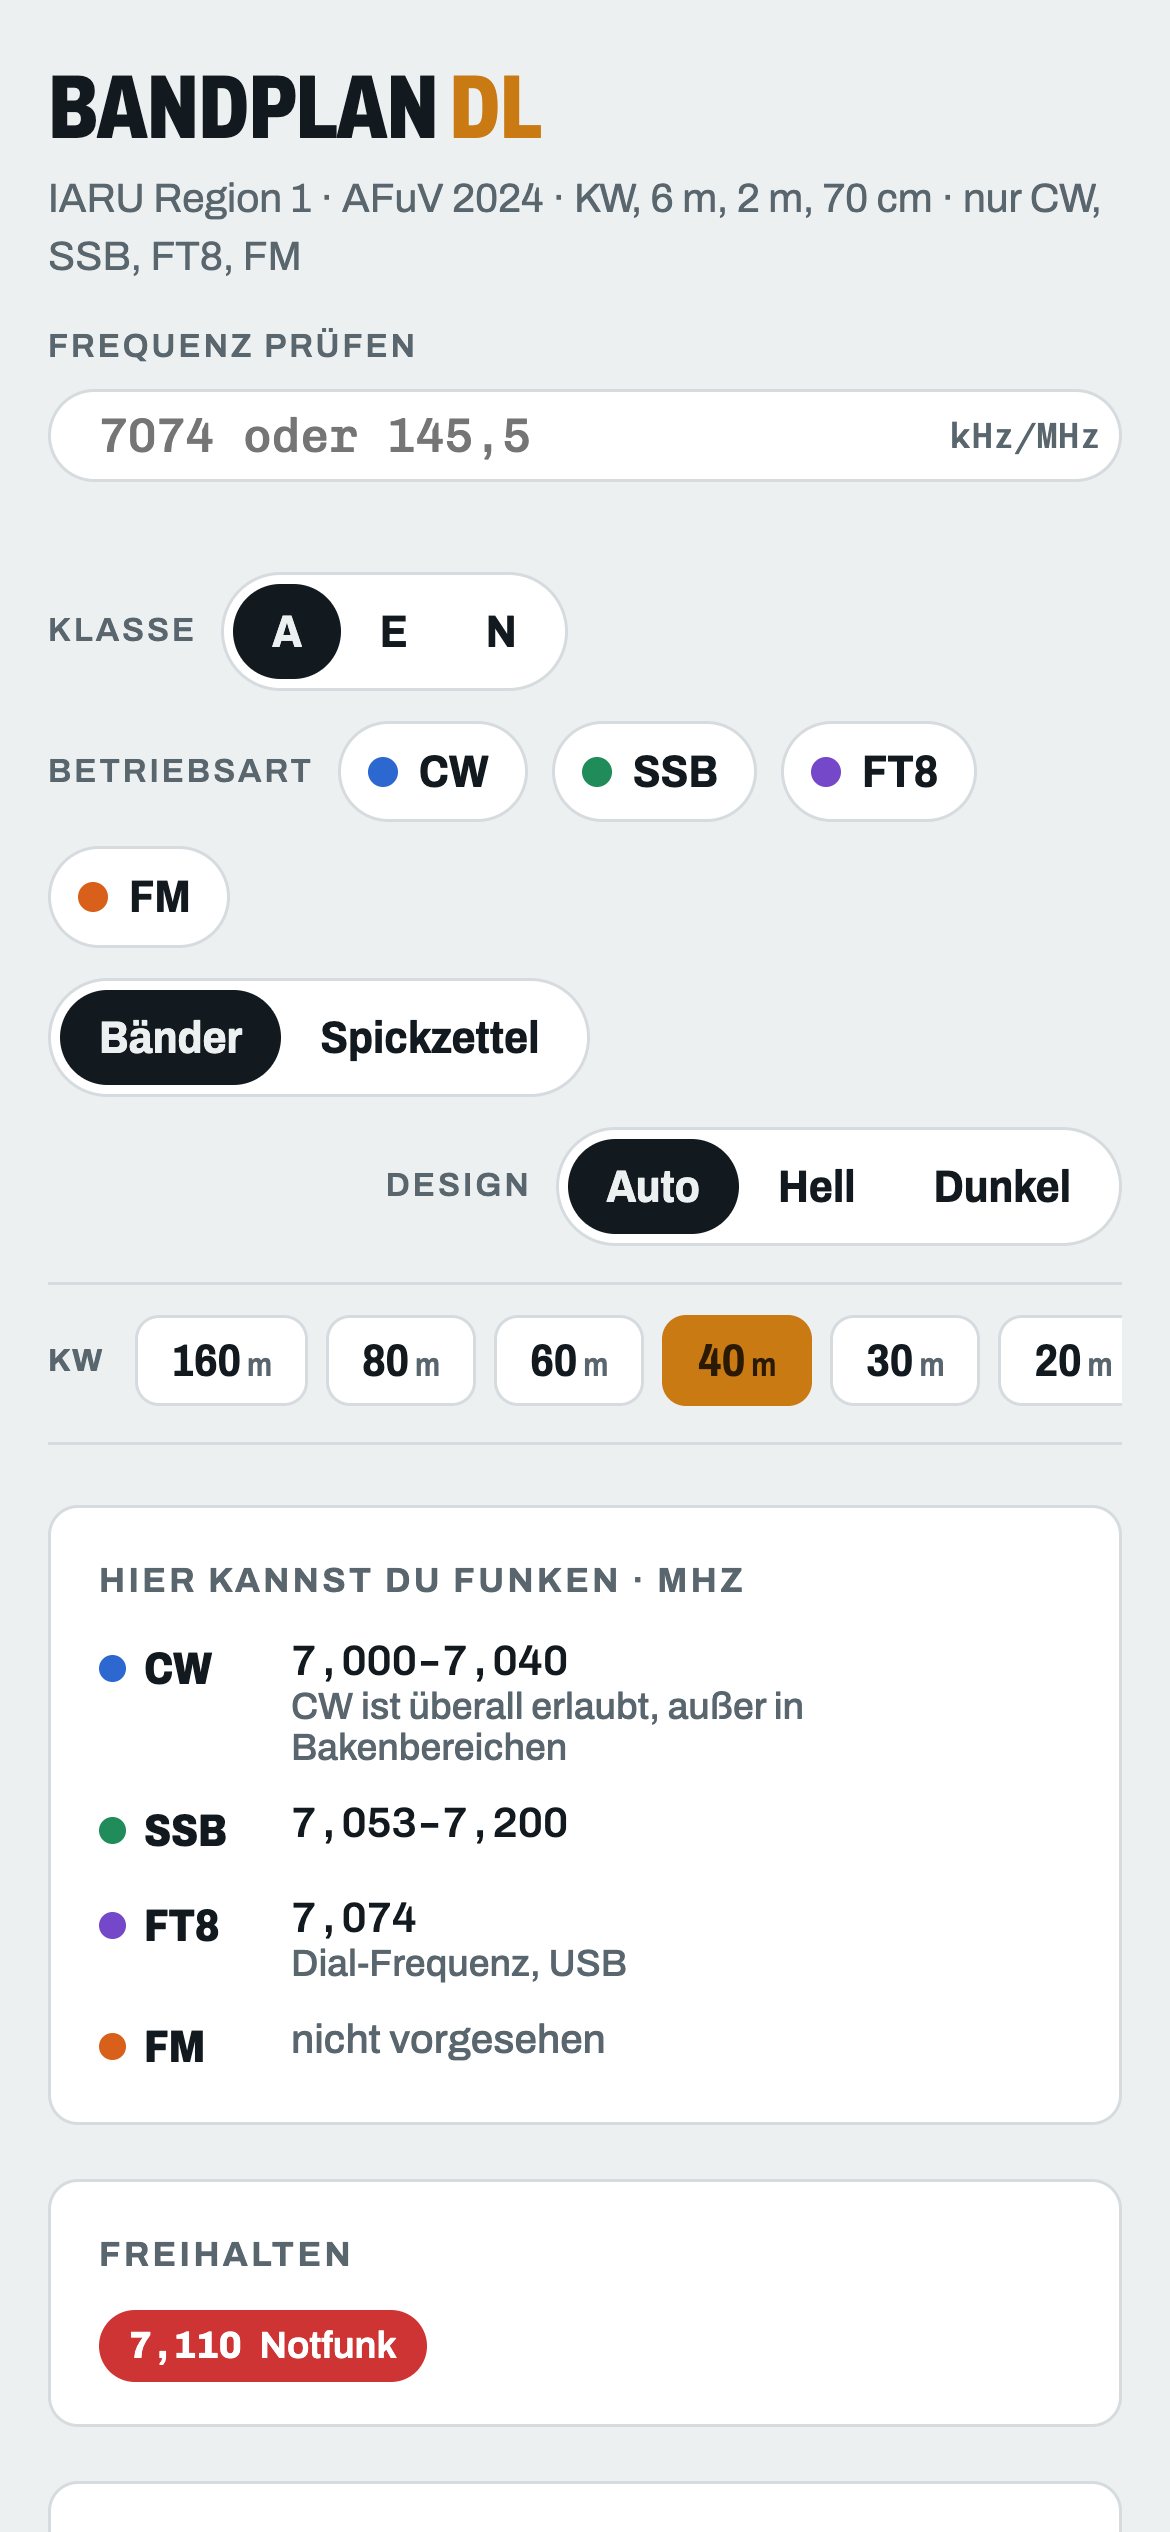
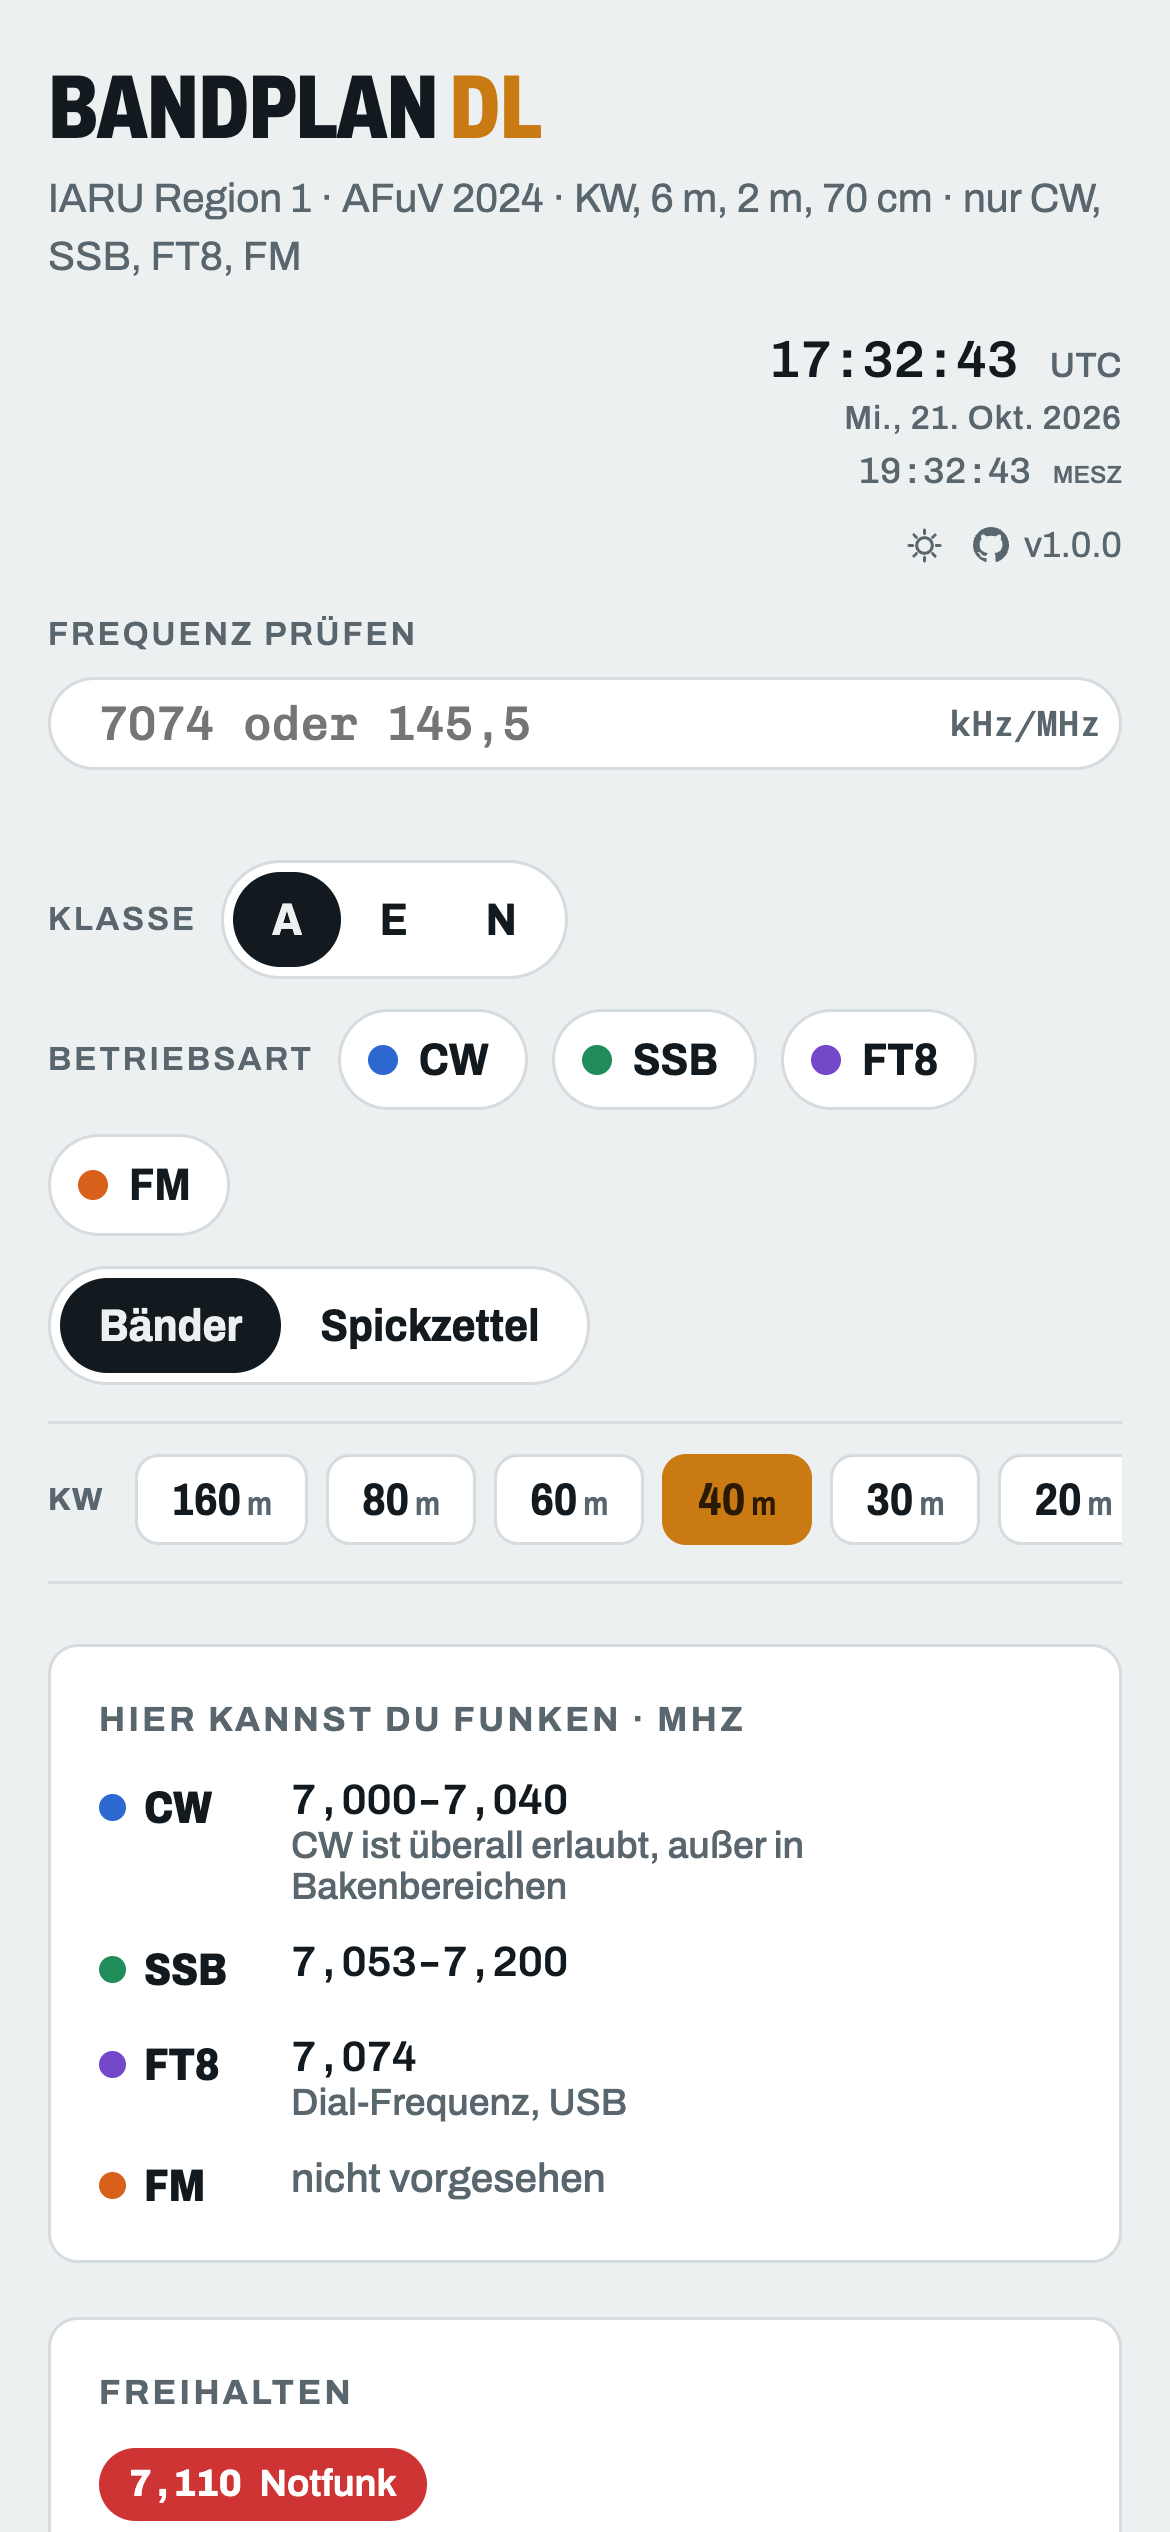
Release v1.0.0: Kopfbereich wie MUF Muncher, Versionierung, Changelog
- Kopf rechts: UTC-Uhr mit Datum und Ortszeit, Hell/Dunkel-Umschalter
  (Sonne/Mond, ohne Wahl gilt die Systemeinstellung), GitHub-Link mit
  Version; ersetzt den Auto/Hell/Dunkel-Schalter in der Steuerleiste.
  GitHub-Icon als Inline-SVG (keine Inhalte von Dritten, CSP bleibt streng)
- VERSION in assets/app.js, Anzeige im Kopf und im Footer
- CHANGELOG.md, README: Release-Ablauf
- Screenshots aktualisiert

diff --git a/index.html b/index.html
@@ -18,6 +18,23 @@
       <h1>Bandplan <span>DL</span></h1>
       <p>IARU Region 1 · AFuV 2024 · KW, 6 m, 2 m, 70 cm · nur CW, SSB, FT8, FM</p>
     </div>
+    <div class="hud">
+      <div class="live-clock" aria-label="Uhrzeit">
+        <div class="clock-utc"><span id="utcClock">--:--:--</span> <span class="clock-tz">UTC</span></div>
+        <div class="clock-date" id="clockDate">&nbsp;</div>
+        <div class="clock-local"><span id="localClock">--:--:--</span> <span class="clock-tz" id="localTz"></span></div>
+      </div>
+      <div class="hud-row">
+        <button type="button" id="themeToggle" class="theme-toggle" aria-label="Hell/Dunkel umschalten" title="Hell/Dunkel umschalten">
+          <svg class="theme-icon-sun" viewBox="0 0 20 20" width="13" height="13" aria-hidden="true"><circle cx="10" cy="10" r="4" fill="none" stroke="currentColor" stroke-width="1.6"/><g stroke="currentColor" stroke-width="1.6" stroke-linecap="round"><path d="M10 2v2M10 16v2M18 10h-2M4 10H2M15.5 4.5l-1.4 1.4M5.9 14.1l-1.4 1.4M15.5 15.5l-1.4-1.4M5.9 5.9L4.5 4.5"/></g></svg>
+          <svg class="theme-icon-moon" viewBox="0 0 20 20" width="13" height="13" aria-hidden="true"><path d="M15.5 12.3A6.5 6.5 0 1 1 7.7 4.5a5.2 5.2 0 0 0 7.8 7.8z" fill="currentColor"/></svg>
+        </button>
+        <a class="version-link" href="https://github.com/mooxle/bandplan-dl" rel="noopener" title="Quellcode auf GitHub">
+          <svg viewBox="0 0 16 16" width="12" height="12" aria-hidden="true"><path fill="currentColor" d="M8 0C3.58 0 0 3.58 0 8c0 3.54 2.29 6.53 5.47 7.59.4.07.55-.17.55-.38 0-.19-.01-.82-.01-1.49-2.01.37-2.53-.49-2.69-.94-.09-.23-.48-.94-.82-1.13-.28-.15-.68-.52-.01-.53.63-.01 1.08.58 1.23.82.72 1.21 1.87.87 2.33.66.07-.52.28-.87.51-1.07-1.78-.2-3.64-.89-3.64-3.95 0-.87.31-1.59.82-2.15-.08-.2-.36-1.02.08-2.12 0 0 .67-.21 2.2.82.64-.18 1.32-.27 2-.27.68 0 1.36.09 2 .27 1.53-1.04 2.2-.82 2.2-.82.44 1.1.16 1.92.08 2.12.51.56.82 1.27.82 2.15 0 3.07-1.87 3.75-3.65 3.95.29.25.54.73.54 1.48 0 1.07-.01 1.93-.01 2.2 0 .21.15.46.55.38A8.013 8.013 0 0016 8c0-4.42-3.58-8-8-8z"/></svg>
+          <span id="versionHeader"></span>
+        </a>
+      </div>
+    </div>
     <div class="check">
       <label for="chk">Frequenz prüfen</label>
       <div class="field"><input id="chk" type="text" inputmode="decimal" placeholder="7074 oder 145,5" autocomplete="off" enterkeyhint="go"><span class="unit">kHz/MHz</span></div>
@@ -37,11 +54,6 @@
         <button id="tabBand" data-v="band">Bänder</button><button id="tabSheet" data-v="sheet">Spickzettel</button>
       </div>
     </div>
-    <div class="ctl theme"><span class="lbl">Design</span>
-      <div class="seg" id="theme" role="group" aria-label="Farbschema">
-        <button data-t="auto" title="Wie das Gerät">Auto</button><button data-t="light">Hell</button><button data-t="dark">Dunkel</button>
-      </div>
-    </div>
   </div>
 
   <nav class="bandbar" aria-label="Bänder"><div class="bands" id="bands"></div></nav>
@@ -53,6 +65,7 @@
     <div>Der Bandplan ist eine Empfehlung; rechtlich verbindlich sind Frequenzbereiche und Leistungen der AFuV. CW ist laut IARU auf allen Bändern überall erlaubt, außer in Bakenbereichen. Frequenzen sind Sendefrequenzen bzw. für FT8 die Dial-Frequenz (USB).</div>
     <div>Direktlinks: <span class="mono">#40</span> öffnet ein Band, <span class="mono">#f=7.074</span> prüft eine Frequenz, <span class="mono">#spick</span> den Spickzettel. Spickzettel lässt sich drucken (A4).</div>
     <div>Privates, nicht kommerzielles Projekt von Max Sammet, <a href="https://www.qrz.com/db/DA6MAX" rel="noopener noreferrer">DA6MAX</a> · <a href="impressum.html">Impressum &amp; Datenschutz</a></div>
+    <div><span id="versionFoot"></span> · MIT-Lizenz · <a href="https://github.com/mooxle/bandplan-dl" rel="noopener">Quellcode auf GitHub</a></div>
     <!--BUILD-->
   </footer>
 </div>

diff --git a/assets/app.css b/assets/app.css
@@ -32,7 +32,24 @@ button{font:inherit;color:inherit}
 :focus-visible{outline:2px solid var(--accent);outline-offset:2px}
 
 /* Kopf */
-header.top{display:grid;grid-template-columns:1fr auto;gap:12px 24px;align-items:end;padding-block:22px 14px}
+header.top{display:grid;grid-template-columns:1fr auto;grid-template-areas:"brand hud" "brand check" "res res";gap:12px 24px;align-items:end;padding-block:22px 14px}
+.brand{grid-area:brand}
+.check{grid-area:check}
+/* Uhr, Hell/Dunkel, GitHub + Version (wie bei MUF Muncher) */
+.hud{grid-area:hud;display:flex;flex-direction:column;align-items:flex-end;gap:2px}
+.live-clock{text-align:right;font-family:var(--font-m);font-variant-numeric:tabular-nums}
+.clock-utc{font-size:17px;font-weight:500;color:var(--ink);letter-spacing:.01em}
+.clock-date{font:500 11px var(--font-d);color:var(--muted);letter-spacing:.03em;margin-top:1px}
+.clock-local{font-size:12px;color:var(--muted);margin-top:3px}
+.clock-tz{font:500 .68em var(--font-d);color:var(--muted)}
+.hud-row{display:flex;align-items:center;gap:6px;margin-top:4px}
+.version-link{display:flex;align-items:center;gap:5px;font-size:12px;color:var(--muted);text-decoration:none}
+.version-link:hover{color:var(--ink)}
+.theme-toggle{display:inline-flex;align-items:center;justify-content:center;width:20px;height:20px;padding:0;border:0;border-radius:6px;background:transparent;color:var(--muted);cursor:pointer}
+.theme-toggle:hover{color:var(--ink);background:var(--surface2)}
+.theme-toggle .theme-icon-moon{display:none}
+.theme-toggle.is-dark .theme-icon-sun{display:none}
+.theme-toggle.is-dark .theme-icon-moon{display:block}
 .brand h1{margin:0;font-weight:800;font-stretch:72%;font-size:clamp(30px,6vw,46px);line-height:.95;letter-spacing:-.01em;text-transform:uppercase}
 .brand h1 span{color:var(--accent)}
 .brand p{margin:6px 0 0;color:var(--muted);font-size:13.5px}
@@ -41,11 +58,10 @@ header.top{display:grid;grid-template-columns:1fr auto;gap:12px 24px;align-items
 .check .field{display:flex;align-items:center;background:var(--surface);border:1px solid var(--line);border-radius:999px;padding:4px 6px 4px 14px;gap:8px}
 .check input{border:0;background:transparent;color:var(--ink);font:500 16px var(--font-m);width:200px;min-width:0;outline:none}
 .check .unit{font:500 12px var(--font-m);color:var(--muted)}
-#chkRes{grid-column:1/-1}
+#chkRes{grid-area:res}
 
 .controls{display:flex;flex-wrap:wrap;gap:10px 22px;align-items:center;padding-block:4px 12px;border-bottom:1px solid var(--line)}
 .ctl{display:flex;align-items:center;gap:8px;flex-wrap:wrap}
-.ctl.theme{margin-left:auto}
 .ctl > .lbl{font-size:11px;letter-spacing:.09em;text-transform:uppercase;color:var(--muted);font-weight:600}
 .seg{display:inline-flex;background:var(--surface);border:1px solid var(--line);border-radius:999px;padding:3px}
 .seg button{border:0;background:transparent;padding:5px 13px;border-radius:999px;cursor:pointer;font-weight:700;font-stretch:90%}
@@ -154,7 +170,7 @@ footer a{color:inherit}
   .bandhead .pwr{margin-left:0}
 }
 @media (max-width:560px){
-  header.top{grid-template-columns:minmax(0,1fr)}
+  header.top{grid-template-columns:minmax(0,1fr);grid-template-areas:"brand" "hud" "check" "res"}
   .check input{width:100%}
   .tabs{margin-left:0}
   .rung{grid-template-columns:52px 10px minmax(0,1fr);column-gap:9px}
@@ -166,7 +182,7 @@ footer a{color:inherit}
 @media print{
   :root{--bg:#fff;--surface:#fff;--surface2:#fff;--line:#bbb}
   body{padding:0;font-size:11px}
-  .controls,.bandbar,.check,#chkRes,.linkbtn,aside.side .card:last-child{display:none!important}
+  .controls,.bandbar,.check,.hud,#chkRes,.linkbtn,aside.side .card:last-child{display:none!important}
   header.top{padding-block:0 8px}
   .sheet{grid-template-columns:repeat(3,minmax(0,1fr));gap:6px;padding-top:6px}
   .scard{padding:8px;break-inside:avoid;gap:5px}

diff --git a/assets/app.js b/assets/app.js
@@ -1,5 +1,7 @@
 /* Bandplan DL – Logik (Rendering, Frequenz-Check, Zustand). Daten kommen aus data.js. */
 
+const VERSION='1.0.0';  // bei jedem Release erhöhen, zusammen mit CHANGELOG.md (siehe README, „Release erstellen“)
+
 /* ---------- Helfer ---------- */
 const fwOf=(b,s)=>(FW[b.id]||{})[s.lo];
 const fmt=k=>{let s=(k/1000).toFixed(4);s=s.replace(/0$/,'');return s.replace('.',',')};
@@ -225,16 +227,28 @@ function applyHash(){
   readHash();render();check($('chk').value);
   if(state.hit) showHit();
 }
-/* ---------- Farbschema: auto (System) | hell | dunkel. Der gespeicherte Wert wird schon in theme.js (im <head>) gesetzt. ---------- */
-function applyTheme(t){
-  const r=document.documentElement;
-  if(t==='light'||t==='dark')r.dataset.theme=t;else delete r.dataset.theme;
-  document.querySelectorAll('#theme button').forEach(bt=>bt.setAttribute('aria-pressed',String(bt.dataset.t===t)));
+/* ---------- Kopf: Version, Uhr, Hell/Dunkel (wie bei MUF Muncher) ---------- */
+$('versionHeader').textContent='v'+VERSION;
+$('versionFoot').textContent='Bandplan DL v'+VERSION;
+
+const fmtDate=new Intl.DateTimeFormat('de-DE',{timeZone:'UTC',weekday:'short',day:'numeric',month:'short',year:'numeric'});
+function tick(){
+  const now=new Date();
+  $('utcClock').textContent=now.toISOString().slice(11,19);
+  $('clockDate').textContent=fmtDate.format(now);
+  $('localClock').textContent=now.toLocaleTimeString('de-DE',{hour12:false});
+  const tz=new Intl.DateTimeFormat('de-DE',{timeZoneName:'short'}).formatToParts(now).find(p=>p.type==='timeZoneName');
+  $('localTz').textContent=tz?tz.value:'';
 }
-let theme=store.get('theme','auto');
-if(!['auto','light','dark'].includes(theme))theme='auto';
-applyTheme(theme);
-document.querySelectorAll('#theme button').forEach(bt=>bt.onclick=()=>{theme=bt.dataset.t;store.set('theme',theme);applyTheme(theme)});
+tick();setInterval(tick,1000);
+
+/* Explizite Wahl liegt in localStorage 'bp_theme' und wird schon in theme.js (im <head>) gesetzt; ohne Wahl gilt prefers-color-scheme. */
+const prefersDark=matchMedia('(prefers-color-scheme: dark)');
+const effectiveTheme=()=>{const t=document.documentElement.dataset.theme;return t==='light'||t==='dark'?t:(prefersDark.matches?'dark':'light')};
+const syncThemeIcon=()=>$('themeToggle').classList.toggle('is-dark',effectiveTheme()==='dark');
+$('themeToggle').onclick=()=>{const next=effectiveTheme()==='dark'?'light':'dark';document.documentElement.dataset.theme=next;store.set('theme',next);syncThemeIcon()};
+prefersDark.addEventListener('change',syncThemeIcon);
+syncThemeIcon();
 
 addEventListener('hashchange',applyHash);
 applyHash();

diff --git a/README.md b/README.md
@@ -12,7 +12,7 @@ Interaktiver Amateurfunk-Bandplan für Deutschland als statische Webseite: KW (1
 - **Spickzettel.** Alle Bänder auf einen Blick, druckbar auf A4 (Browser-Druck).
 - **Frequenz prüfen.** Eingabe in kHz (`7074`), MHz (`145,5`) oder Hz (`14074000`). Zeigt Segment, passende Betriebsarten, FM-Bandbreite und warnt vor Notfunk- und Bakenfrequenzen in der Nähe. `Enter` springt ins Band, `Esc` löscht.
 - **Direktlinks.** `#40` öffnet ein Band, `#f=7.074` prüft eine Frequenz, `#spick` öffnet den Spickzettel.
-- Hell/Dunkel: Umschalter „Design“ (Auto = Systemeinstellung, Hell, Dunkel); die Wahl bleibt im Browser gespeichert (`localStorage`).
+- **Kopfbereich** wie bei MUF Muncher: UTC-Uhr mit Datum und Ortszeit, Hell/Dunkel-Umschalter (ohne eigene Wahl gilt die Systemeinstellung; die Wahl bleibt im Browser gespeichert) und die laufende Version mit Link zum Quellcode.
 
 <p><img src="docs/screenshot-spickzettel.png" width="62%" alt="Spickzettel"> <img src="docs/screenshot-mobile.png" width="30%" alt="Mobilansicht 40 m"></p>
 
@@ -101,6 +101,23 @@ Das Skript prüft, dass die Segmente jedes Band lückenlos abdecken, alle Marken
 - [IARU R1 UHF Bandplan 2020 (via IRTS)](https://www.irts.ie/dnloads/IARU-R1-Bandplan-UHF-2020.pdf)
 - [AFuV Anlage 1](https://www.gesetze-im-internet.de/afuv_2005/anlage_1.html)
 - [DARC Notfunk-Frequenzen (2022-09-13)](https://www.mikrocontroller.net/attachment/570850/darc_notfunk_Notfunkfrequenzen_2022-09-13.pdf)
+
+## Release erstellen
+
+Versionen nach Semantic Versioning, Änderungen stehen in [`CHANGELOG.md`](CHANGELOG.md). Die Versionsnummer steht als `VERSION` oben in [`assets/app.js`](assets/app.js) und wird im Kopf und im Footer angezeigt.
+
+1. `VERSION` in `assets/app.js` erhöhen und in `CHANGELOG.md` einen Abschnitt `## [x.y.z] - JJJJ-MM-TT` samt Link unten anlegen.
+2. Committen, taggen und auf beide Remotes pushen. Der Push nach GitHub deployt die neue Version.
+   ```bash
+   git commit -am "Release vX.Y.Z"
+   git tag -a vX.Y.Z -m "vX.Y.Z"
+   git push private main --tags
+   git push origin main --tags
+   ```
+3. GitHub-Release mit den Notizen aus dem Changelog anlegen:
+   ```bash
+   gh release create vX.Y.Z --repo mooxle/bandplan-dl --title vX.Y.Z --notes "$(awk '/^## \[X.Y.Z\]/{f=1;next} /^## \[/{f=0} f && !/^\[[0-9]/' CHANGELOG.md)"
+   ```
 
 ## Lizenz
 

diff --git a/CHANGELOG.md b/CHANGELOG.md
@@ -1,0 +1,23 @@
+# Changelog
+
+Alle nennenswerten Änderungen an Bandplan DL. Versionen nach [Semantic Versioning](https://semver.org/lang/de/): Patch für Korrekturen (auch an Bandplan-Daten), Minor für neue Funktionen, Major für grundlegende Umbauten.
+
+## [1.0.0] - 2026-10-21
+Erstes Release.
+
+### Funktionen
+- Interaktiver Bandplan für 160 m bis 10 m, 6 m, 2 m und 70 cm nach IARU Region 1 (KW-Plan 2020, VHF Handbook 10.03), Klassen und Leistungen nach AFuV Anlage 1.
+- Filter nach Lizenzklasse (A, E, N) und Betriebsart (CW, SSB, FT8, FM). Nicht zugelassene Bänder sind durchgestrichen.
+- Frequenzleiter pro Band mit schraffierten Relais-, Baken-, Satelliten- und Datenbereichen, Notfunk-, Anruf- und FT8-Frequenzen sowie NBFM-/Breit-FM-Kennung.
+- „Hier kannst du funken“ pro Betriebsart, Spickzettel aller Bänder (druckbar auf A4).
+- Frequenz-Check für kHz, MHz und Hz mit Warnung vor Notfunk- und Bakenfrequenzen.
+- Direktlinks (`#40`, `#f=7.074`, `#spick`).
+- Kopfbereich wie bei MUF Muncher: UTC-Uhr mit Datum und Ortszeit, Hell/Dunkel-Umschalter, Version mit Link zum Quellcode.
+
+### Betrieb
+- Statische Seite ohne Abhängigkeiten zu Dritten: Schriften selbst gehostet, keine Cookies, kein Tracking, strenge CSP.
+- Produktion auf Cloudflare Pages, automatischer Deploy bei jedem Push auf `main` (GitHub Actions), vorher Datenprüfung mit `tools/validate.js`.
+- Docker-Image (nginx, non-root) für den eigenen Betrieb.
+- Cache-Busting per Inhalts-Hash an jeder JS/CSS-Referenz, Build-Stempel (Commit und Datum) im Footer.
+
+[1.0.0]: https://github.com/mooxle/bandplan-dl/releases/tag/v1.0.0
